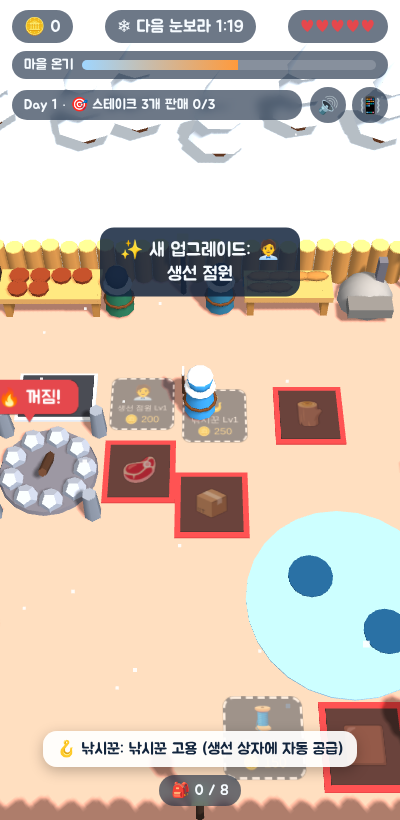
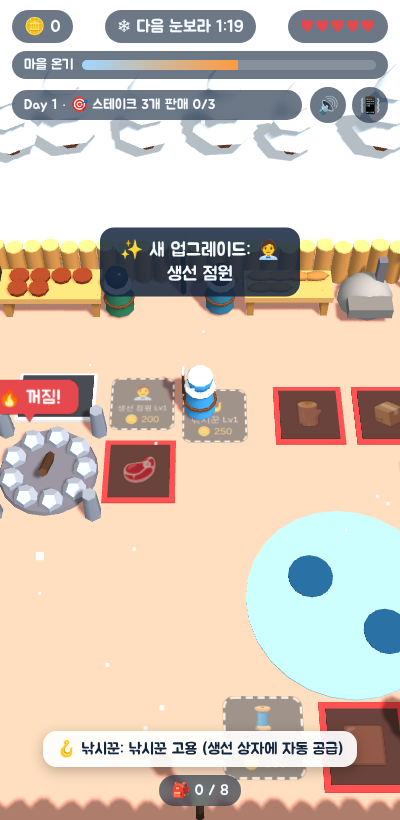
Add the alpha wolf, harder pup taming, and level-based pet looks
- Fish crate moves right next to the oven's wood tile
- Pups need 8 meat to tame, with a fed counter in their bubble
- The pet's coat and gear change at every level, ending as a white snow king
- An alpha wolf joins every 3rd pack from the 2nd blizzard: bigger, tougher,
  hits for 2, drops more meat, coins and a likely pup

Claude-Session: https://claude.ai/code/session_01EnWv2wQQwy3AgGFfY5nHNE

diff --git a/prototype/game.js b/prototype/game.js
@@ -251,7 +251,7 @@ const P = {
   grill: V(2, 0, -5.4), counter: V(4.6, 0, -8.9), counterStand: V(4.6, 0, -7.6),
   coinPile: V(6.9, 0, -7.2), gate: V(0, 0, 6), queueFront: V(3.6, 0, -11.2),
   fishShop: V(11.6, 0, -8.9), oven: V(14, 0, -8.9), ovenOut: V(14, 0, -7.2),
-  ovenWood: V(12, 0, -4.8), fishCrate: V(9.3, 0, -2), serverGrill: V(.3, 0, -5.4), serverWay: V(.3, 0, -7.1),
+  ovenWood: V(12, 0, -4.8), fishCrate: V(14.2, 0, -4.8), serverGrill: V(.3, 0, -5.4), serverWay: V(.3, 0, -7.1),
   holes: [V(11.7, 0, 0), V(13.4, 0, 1.4)],
 };
 const BOUNDS = { x1: -21, x2: 18, z1: -15, z2: 24 };
@@ -1037,10 +1037,10 @@ function spawnFieldBear() {
   bears.push(b);
 }
 for (let i = 0; i < T.fieldBears; i++) spawnFieldBear();
-function makeWolf() {
+function makeWolf(alpha = false) {
   const g = new THREE.Group(); scene.add(g);
   const body = new THREE.Group(); g.add(body);
-  const fur = new THREE.MeshLambertMaterial({ color: 0x8e98a8 });
+  const fur = new THREE.MeshLambertMaterial({ color: alpha ? 0x2b2f3a : 0x8e98a8 });
   const m = (geo, x, y, z, material = fur) => {
     const o = mesh(geo, material, x, y, z); body.add(o);
     if (material === fur) { const ol = new THREE.Mesh(geo, outlineMat); ol.position.copy(o.position); ol.rotation.copy(o.rotation); ol.scale.setScalar(1.12); body.add(ol); }
@@ -1059,12 +1059,22 @@ function makeWolf() {
   bar.add(new THREE.Mesh(hpBarGeo, new THREE.MeshBasicMaterial({ color: 0x13253d, depthTest: false })));
   const fill = new THREE.Mesh(hpBarGeo, new THREE.MeshBasicMaterial({ color: 0xe5484d, depthTest: false })); fill.position.z = .01; bar.add(fill);
   bar.visible = false; bar.renderOrder = 11; fill.renderOrder = 12;
-  const hp = 2 + Math.floor(S.storms / 3);
-  return { g, body, fur, bar, fill, wolf: true, raider: false, boss: false, hp, maxHp: hp, x: 0, z: 0, tx: 0, cd: 0, flash: 0, squash: 0, recoil: 0, stagger: 0, wander: 0 };
+  if (alpha) {
+    m(new THREE.TorusGeometry(.3, .1, 6, 14).rotateX(Math.PI / 2), 0, 1.0, .5, mat(0xd9e3ee));
+    for (const s of [-1, 1]) m(new THREE.BoxGeometry(.08, .07, .05), s * .11, 1.04, .95, mat(0xff3030, { emissive: 0xaa0000 }));
+    g.scale.setScalar(1.5);
+  }
+  const hp = alpha ? T.alpha.hp + 2 * Math.floor(S.storms / 2) : 2 + Math.floor(S.storms / 3);
+  return { g, body, fur, bar, fill, wolf: true, alpha, raider: false, boss: false, hp, maxHp: hp, x: 0, z: 0, tx: 0, cd: 0, flash: 0, squash: 0, recoil: 0, stagger: 0, wander: 0 };
 }
 function spawnPack() {
   const x = rand(-10, 10), z = rand(15, 22);
-  for (let i = 0; i < T.wolfPackSize; i++) { const w = makeWolf(); w.x = x + rand(-1.2, 1.2); w.z = z + rand(-1.2, 1.2); w.tx = w.x; w.tz = w.z; bears.push(w); }
+  S.packs = (S.packs || 0) + 1;
+  const alpha = S.storms >= 2 && S.packs % T.alpha.every === 0 && !bears.some(b => b.alpha);
+  for (let i = 0; i < T.wolfPackSize + (alpha ? 1 : 0); i++) {
+    const w = makeWolf(alpha && i === 0); w.x = x + rand(-1.2, 1.2); w.z = z + rand(-1.2, 1.2); w.tx = w.x; w.tz = w.z; bears.push(w);
+  }
+  if (alpha) { toast('🐺 대장 늑대가 나타났다!'); play('growl'); buzz([40, 30, 60]); }
 }
 
 // wolf pups → tamed pets (fight beside the player, +4 bag each)
@@ -1072,24 +1082,51 @@ const pets = [], pups = [];
 function petModel(color, scale) {
   const w = makeWolf(); w.bar.visible = false; w.fur.color.setHex(color); w.g.scale.setScalar(scale); return w;
 }
+// each pet level gets its own coat and gear so growth is visible at a glance
+const PET_LOOKS = [
+  { fur: 0xc9ced8, scarf: 0xe5484d },
+  { fur: 0xd9c3a0, scarf: 0xe5484d },
+  { fur: 0xa8875f, scarf: 0x3a9ad9, stripe: 0x4a3020 },
+  { fur: 0x6f7a8a, collar: 0x3b2a20, spikes: 0xd9e3ee, plates: 0x8a8f99 },
+  { fur: 0xf4f6fa, mane: 0xffc83d, crown: 0xffc83d, glow: true },
+];
+function applyPetLook(w) {
+  const L = PET_LOOKS[w.lv] || PET_LOOKS[0];
+  w.fur.color.setHex(L.fur);
+  if (w.look) { w.body.remove(w.look); disposeActor(w.look); }
+  const g = w.look = new THREE.Group(); w.body.add(g);
+  if (L.scarf) g.add(mesh(new THREE.TorusGeometry(.26, .07, 6, 12).rotateX(Math.PI / 2), mat(L.scarf), 0, .98, .5));
+  if (L.stripe) g.add(mesh(new THREE.BoxGeometry(.2, .06, 1.0), mat(L.stripe), 0, .99, 0));
+  if (L.collar) {
+    g.add(mesh(new THREE.TorusGeometry(.27, .08, 6, 12).rotateX(Math.PI / 2), mat(L.collar), 0, .98, .5));
+    for (let i = 0; i < 6; i++) { const a = i / 6 * Math.PI * 2, sp = mesh(new THREE.ConeGeometry(.05, .16, 4), mat(L.spikes), Math.cos(a) * .3, .98, .5 + Math.sin(a) * .3); sp.rotation.z = -Math.cos(a) * 1.4; sp.rotation.x = Math.sin(a) * 1.4; g.add(sp); }
+    for (const s of [-1, 1]) g.add(mesh(new THREE.BoxGeometry(.12, .3, .5), mat(L.plates), s * .32, .85, .1));
+  }
+  if (L.mane) g.add(mesh(new THREE.TorusGeometry(.32, .13, 6, 14).rotateX(Math.PI / 2), mat(L.mane, { emissive: 0x664400 }), 0, 1.0, .5));
+  if (L.crown) g.add(mesh(new THREE.ConeGeometry(.14, .22, 5), mat(L.crown, { emissive: 0x664400 }), 0, 1.3, .7));
+  if (L.glow) g.add(mesh(new THREE.SphereGeometry(.5, 10, 8), new THREE.MeshBasicMaterial({ color: 0x9fd6ff, transparent: true, opacity: .15, depthWrite: false }), 0, .8, 0, false));
+}
 function spawnPup(x, z) {
-  const u = petModel(0xc9ced8, .6); u.x = x; u.z = z; u.t = 40; u.g.position.set(x, 0, z);
-  const b = sprite(160, 120, 1.6, 1.2); b.sp.position.y = 2.6; u.g.add(b.sp); b.draw((c, w, h) => bubble(c, w, h, '🥩?'));
+  const u = petModel(0xc9ced8, .6); u.x = x; u.z = z; u.t = 60; u.fed = 0; u.g.position.set(x, 0, z);
+  const b = sprite(180, 120, 1.8, 1.2); b.sp.position.y = 2.6; u.g.add(b.sp); b.draw((c, w, h) => bubble(c, w, h, `🥩 0/${T.pet.tameMeat}`));
   u.bub = b; pups.push(u);
-  toast('🐺 새끼 늑대! 고기를 들고 다가가면 길들일 수 있어요');
+  toast(`🐺 새끼 늑대! 고기 ${T.pet.tameMeat}개를 먹이면 길들일 수 있어요`);
 }
 const petLv = () => T.pet.hits.filter(h => S.petHits >= h).length - 1;
 function addPet() {
-  const w = petModel(0xd9c3a0, T.pet.scale[petLv()]); w.lv = petLv();
-  w.g.add(mesh(new THREE.TorusGeometry(.26, .07, 6, 12).rotateX(Math.PI / 2), mat(0xe5484d), 0, .98, .5));
+  const w = petModel(0xd9c3a0, T.pet.scale[petLv()]); w.lv = petLv(); applyPetLook(w);
   w.x = pl.x - 1; w.z = pl.z; w.cd = 0; pets.push(w); S.petCount = pets.length;
 }
 function removeWolfModel(u) { scene.remove(u.g); disposeActor(u.g, hpBarGeo); u.fur.dispose(); if (u.bub) { u.bub.tex.dispose(); u.bub.sp.material.dispose(); } }
 function updatePets(dt) {
   for (let i = pups.length - 1; i >= 0; i--) {
     const u = pups[i]; u.t -= dt; u.g.position.y = Math.abs(Math.sin(performance.now() / 200 + i)) * .06;
-    if (Math.hypot(u.x - pl.x, u.z - pl.z) < 1.6 && stackHas('meat') && pets.length < 1) {
-      stackTake('meat'); removeWolfModel(u); pups.splice(i, 1); addPet();
+    if (Math.hypot(u.x - pl.x, u.z - pl.z) < 1.6 && stackHas('meat') && pets.length < 1 && tick('feedPup', .35, dt)) {
+      stackTake('meat'); u.fed++; u.t = 60; play('pop', 60);
+      fly('meat', backPos(), V(u.x, .6, u.z), .2);
+      u.bub.draw((c, w, h) => bubble(c, w, h, `🥩 ${u.fed}/${T.pet.tameMeat}`));
+      if (u.fed < T.pet.tameMeat) continue;
+      removeWolfModel(u); pups.splice(i, 1); addPet();
       toast('🐺 늑대를 길들였어요! 함께 싸우며 점점 자랍니다 (가방 +4)'); play('up'); buzz([20, 30, 20]);
       burst(pl.x, 1, pl.z, 0xffc83d, 12, { spd: 3, up: 5, life: .6 });
     } else if (u.t <= 0) { removeWolfModel(u); pups.splice(i, 1); }
@@ -1112,7 +1149,7 @@ function updatePets(dt) {
       const dmg = T.pet.dmg[w.lv];
       S.petHits++;
       if (petLv() > w.lv) {
-        w.lv = petLv(); popText(w.x, 2.4, w.z, `🐺 Lv${w.lv + 1}!`, '#ffd36b', true);
+        w.lv = petLv(); applyPetLook(w); popText(w.x, 2.4, w.z, `🐺 Lv${w.lv + 1}!`, '#ffd36b', true);
         burst(w.x, 1, w.z, 0xffc83d, 14, { spd: 3, up: 6, life: .7 }); play('up'); toast(`🐺 늑대가 자랐어요! Lv${w.lv + 1} (공격력 ${T.pet.dmg[w.lv]})`);
       }
       popText(tgt.x, 2.3, tgt.z, `${dmg}`, '#ffd9a0'); burst(tgt.x, 1, tgt.z, 0xffffff, 4, { spd: 3, up: 3, life: .3, size: .6 });
@@ -1144,8 +1181,9 @@ function bearHurt(b, dmg, src = pl) {
   disposeActor(b.g, hpBarGeo);
   b.fur.dispose(); b.bar.children.forEach(o => o.material.dispose());
   if (!b.wolf) S.stat.kills++;
-  const meat = b.wolf ? 1 : b.boss ? 8 : 3, hides = hidesOn() && S.stage >= 2 ? (b.boss ? 3 : 1) : 0;
-  if (b.wolf) { S.stat.wolves++; if (Math.random() < .15 && pets.length + pups.length < 1) spawnPup(b.x, b.z); }
+  const meat = b.alpha ? T.alpha.meat : b.wolf ? 1 : b.boss ? 8 : 3, hides = hidesOn() && S.stage >= 2 ? (b.boss ? 3 : b.alpha ? 2 : 1) : 0;
+  if (b.wolf) { S.stat.wolves++; if (Math.random() < (b.alpha ? T.alpha.pupChance : .15) && pets.length + pups.length < 1) spawnPup(b.x, b.z); }
+  if (b.alpha) { S.coinPile += T.alpha.coins; toast(`🐺 대장 늑대 처치! 보너스 🪙${T.alpha.coins}`); }
   if (src !== pl && src.carry) { src.n = Math.min(6, src.n + meat); src.hides = Math.min(4, src.hides + hides); }
   else {
     for (let i = 0; i < meat; i++) dropPickup('meat', b.x + rand(-1.2, 1.2), b.z + rand(-1.2, 1.2));
@@ -1191,7 +1229,7 @@ function updateBears(dt) {
       }
     }
     if (b.wolf && !chase && !chaseH) sp = 1.6;
-    if (chase) { b.tx = pl.x; b.tz = pl.z; sp = (b.wolf ? 3.4 : 2.5) + .8 * S.stormK; }
+    if (chase) { b.tx = pl.x; b.tz = pl.z; sp = (b.alpha ? 3.8 : b.wolf ? 3.4 : 2.5) + .8 * S.stormK; }
     const dx = b.tx - b.x, dz = b.tz - b.z, d = Math.hypot(dx, dz);
     b.stagger = Math.max(0, b.stagger - dt);
     if (b.stagger <= 0 && d > (chase || chaseH ? 1.3 : .1)) {
@@ -1208,7 +1246,7 @@ function updateBears(dt) {
     if (b.stagger <= 0 && dist < 1.7 && b.cd <= 0 && pl.stunFree && S.hurtCd <= 0) { b.cd = 1.3; hurtPlayer(b); }
     for (const h of hunters) if (b.stagger <= 0 && h.down <= 0 && b.cd <= 0 && Math.hypot(h.x - b.x, h.z - b.z) < 1.7) { b.cd = 1.3; hurtHunter(h, b); }
     b.squash -= dt;
-    const sq = Math.max(0, b.squash) / .22, bs = b.boss ? 1.7 : 1;
+    const sq = Math.max(0, b.squash) / .22, bs = b.boss ? 1.7 : b.alpha ? 1.5 : 1;
     b.g.scale.set(bs * (1 + .25 * sq), bs * (1 - .22 * sq), bs * (1 + .25 * sq));
     b.recoil = Math.max(0, b.recoil - dt);
     const pain = Math.sin(Math.PI * b.recoil / .28);
@@ -1234,7 +1272,7 @@ function dropPickup(type, x, z) {
 
 // ───────────────────────── player ─────────────────────────
 function hurtPlayer(b) {
-  S.hp -= b.boss ? 2 : 1; S.hurtCd = T.hurtGrace; play('hurt'); buzz(150);
+  S.hp -= b.boss || b.alpha ? 2 : 1; S.hurtCd = T.hurtGrace; play('hurt'); buzz(150);
   const dx = pl.x - b.x, dz = pl.z - b.z, d = Math.hypot(dx, dz) || 1;
   pl.x += dx / d * 1.1; pl.z += dz / d * 1.1;
   hurtEl.style.opacity = 1; setTimeout(() => (hurtEl.style.opacity = 0), 220);
@@ -1683,7 +1721,7 @@ const SAVE_KEY = 'winter-rush-v1';
 function save() {
   try {
     const counter = { ...S.counter };
-    const keys = ['coins', 'coinPile', 'wood', 'meat', 'fuel', 'warmth', 'grillItems', 'lv', 'storms', 'stat', 'goal', 'tut', 'woodIn', 'meatIn', 'steakIn', 'served', 'bought', 'hide', 'fishCrate', 'fishRaw', 'ovenWood', 'fishSmoked', 'fishStock', 'smokeFuel', 'tanFuel', 'leather', 'stage', 'petCount', 'petHits', 'tanT', 'hp', 'phase', 'phaseT', 'stormFireOut'];
+    const keys = ['coins', 'coinPile', 'wood', 'meat', 'fuel', 'warmth', 'grillItems', 'lv', 'storms', 'stat', 'goal', 'tut', 'woodIn', 'meatIn', 'steakIn', 'served', 'bought', 'hide', 'fishCrate', 'fishRaw', 'ovenWood', 'fishSmoked', 'fishStock', 'smokeFuel', 'tanFuel', 'leather', 'stage', 'petCount', 'petHits', 'packs', 'tanT', 'hp', 'phase', 'phaseT', 'stormFireOut'];
     const data = Object.fromEntries(keys.map(k => [k, S[k]]));
     data.counter = counter; data.paid = pads.map(p => p.paid);
     data.player = { x: pl.x, z: pl.z };
@@ -1778,5 +1816,5 @@ function footprints() {
   }
   return f;
 }
-window.__winter = { footprints, spawnPup, addPet, pets, fishers, SHOPS, P, S, pl, stack, bears, trees, customers, pads, helpers, servers, hunters, camera, T, save, levelUp };
+window.__winter = { footprints, spawnPup, addPet, spawnPack, applyPetLook, pups, stackAdd, pets, fishers, SHOPS, P, S, pl, stack, bears, trees, customers, pads, helpers, servers, hunters, camera, T, save, levelUp };
 })();

diff --git a/prototype/balance.js b/prototype/balance.js
@@ -16,7 +16,8 @@ window.WinterRushData = {
       fisherCatch: [0, 2.2, 1.4], fisherCarry: [0, 6, 10],
     },
     combat: { autoInterval: .75, manualSwing: .24, comboWindow: 1.6, critChance: .15, slamEvery: 4, tapRange: 2.7 },
-    pet: { hits: [0, 15, 40, 80, 140], dmg: [1, 2, 3, 4, 6], cd: [1, .9, .8, .7, .6], scale: [.55, .65, .78, .9, 1.05] },
+    alpha: { every: 3, hp: 12, meat: 4, coins: 80, pupChance: .6 },   // every 3rd wolf pack (from the 2nd blizzard) brings an alpha
+    pet: { tameMeat: 8, hits: [0, 15, 40, 80, 140], dmg: [1, 2, 3, 4, 6], cd: [1, .9, .8, .7, .6], scale: [.55, .65, .78, .9, 1.05] },
     calmTime: 70, firstCalm: 80, warnTime: 8, stormTime: 25,
     stormBurn: 2.5, stormSlow: .35,
     fieldBears: 3, maxFieldBears: 6, bearHp: 4, bossEvery: 4,

diff --git a/docs/GDD.md b/docs/GDD.md
@@ -139,3 +139,9 @@
 - **화덕 굽기**: 쉐프가 생선 상자에서 바로 화덕 위에 생선을 쌓음. 화덕 위에서 천천히(3.5초) 구워지고, 다 구워지면 바로 옆 생선 가게 진열대로 옮겨짐. 플레이어도 화덕 앞에 서면 들고 있는 생선을 화덕 위에 올림
 - **생선 가게 줄**: 스테이크 가게처럼 손님이 계속 줄을 섬(최대 6+오두막×2명)
 - **2단계 추가 고용**: 나무꾼 2(🪙350), 사냥꾼 2(🪙450). 첫 번째 직원과 같은 숙련도로 일함
+
+## v0.7 변경
+- **생선 상자**: 화덕 장작 칸 바로 오른쪽으로 이동(낚시꾼이 쌓는 곳)
+- **새끼 늑대 길들이기**: 고기 8개를 먹여야 길들여짐(말풍선에 🥩 n/8). 먹이를 줄 때마다 도망가는 시간이 60초로 초기화
+- **펫 외형**: 레벨마다 모습이 바뀜. Lv1 회색 새끼+빨간 스카프 → Lv2 황갈색 → Lv3 갈색+파란 스카프·등 줄무늬 → Lv4 강철색+가시 목걸이·어깨 갑옷 → Lv5 흰 설왕(금빛 갈기·왕관·빛)
+- **대장 늑대**: 2번째 눈보라 이후 늑대 무리 3번째마다 동행. 검은 털·붉은 눈·1.5배 크기, 체력 12+, 공격력 2, 빠름. 처치 시 고기 4·🪙80, 새끼 늑대 확률 60%

diff --git a/docs/HANDOVER.md b/docs/HANDOVER.md
@@ -37,3 +37,4 @@
 - 배치 점검: `window.__winter.footprints()`가 바닥 시설·업그레이드 칸의 사각형 목록을 돌려줌. 업데이트 후 1·2단계 모두에서 겹침이 없는지 확인할 것 (연못은 원으로 판정)
 - v0.5: 화덕 체인 `S.fishCrate → S.fishRaw(+S.ovenWood) → S.fishSmoked → S.fishStock`, 쉐프 작업 선택 `CHEF_JOBS`/`chooseChefJob`, 장인 `S.tanFuel`과 장작 운반, 생선 점원 `fishClerk`(SHOPS.fish.clerk), 칸 결제는 정지 0.5초 후(`p.dwell`)
 - v0.6: 화덕 위 굽기(`fishRawPile`이 화덕 위, 완성 즉시 `S.fishStock`), 쉐프 작업은 `steak`/`fishIn` 두 가지, `helper2`/`hunter2`(2단계, `addHelper`/`addHunter`가 인원 수 판단)
+- v0.7: `makeWolf(alpha)`/`T.alpha`(`S.packs` 카운터), 새끼 늑대 `u.fed`/`T.pet.tameMeat`, 펫 외형 `PET_LOOKS`/`applyPetLook`
